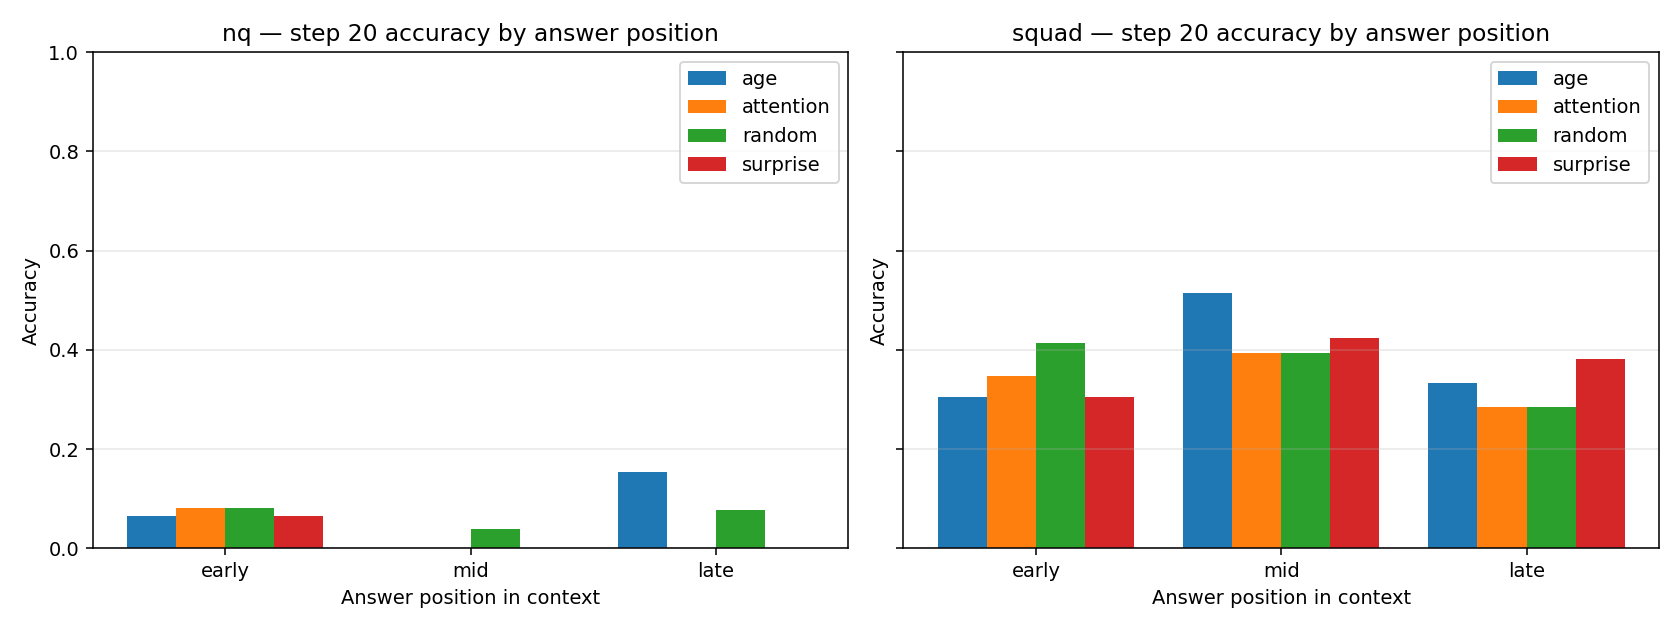
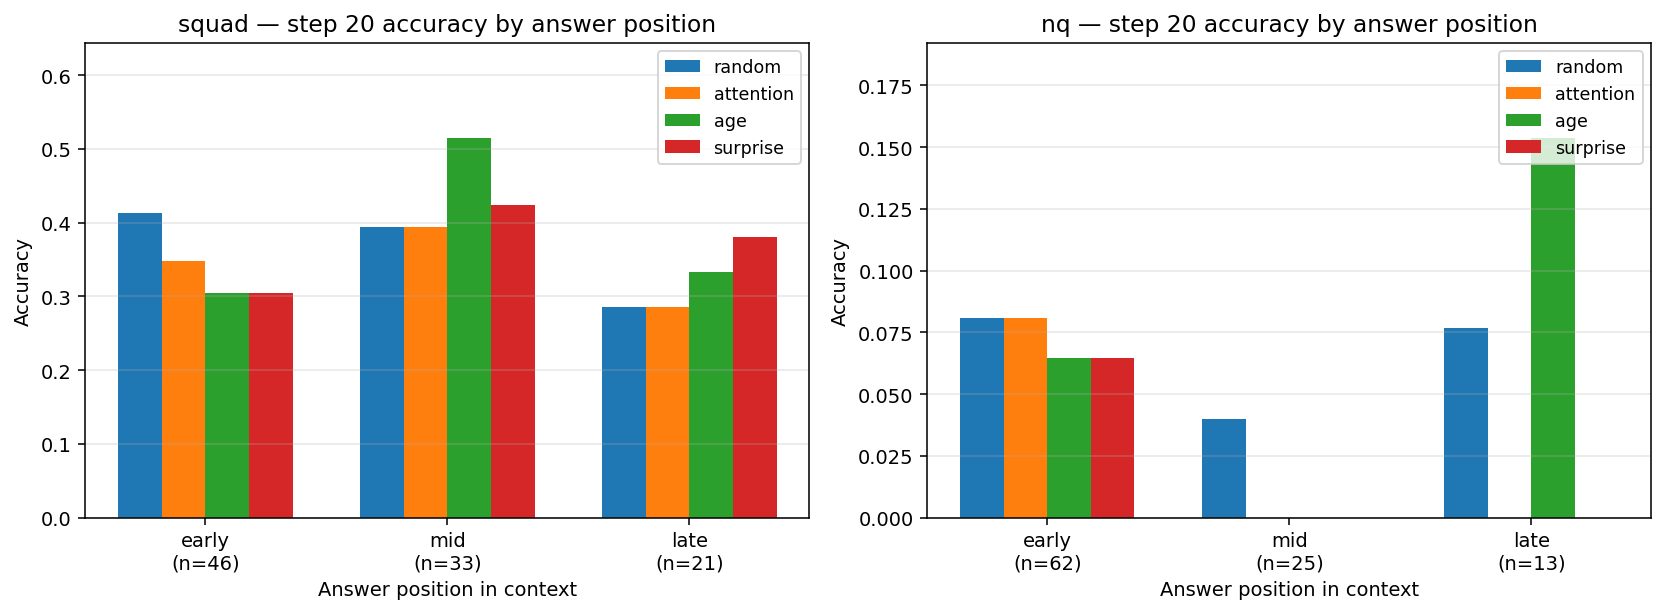
[FIX] position_bias: scale NQ panel independently

diff --git a/analysis/position_bias.py b/analysis/position_bias.py
@@ -197,26 +197,33 @@ def main():
     # Plot — one subplot per dataset, grouped bars over strategies
     datasets = sorted({r["dataset"] for r in rows})
     strategies = sorted({r["strategy"] for r in rows})
+    # No sharey — NQ accuracies are near floor (5-15%); forcing same scale as
+    # SQuAD (where accuracies hit 50%) makes the NQ panel look dead.
     fig, axes = plt.subplots(1, len(datasets), figsize=(6 * len(datasets), 4.5),
-                             sharey=True, squeeze=False)
+                             squeeze=False)
     width = 0.8 / max(len(strategies), 1)
     x = np.arange(args.bins)
 
     for ax, ds in zip(axes[0], datasets):
+        max_y = 0.0
         for si, strat in enumerate(strategies):
             ys = []
             for b in range(args.bins):
                 ms = [r for r in rows if r["dataset"] == ds
                                        and r["strategy"] == strat
                                        and r["bin"] == bin_labels[b]]
-                ys.append(ms[0]["accuracy"] if ms else float("nan"))
+                v = ms[0]["accuracy"] if ms else float("nan")
+                ys.append(v)
+                if not np.isnan(v):
+                    max_y = max(max_y, v)
             ax.bar(x + (si - len(strategies)/2 + 0.5) * width, ys, width, label=strat)
         ax.set_title(f"{ds} — step {args.step} accuracy by answer position")
         ax.set_xticks(x)
         ax.set_xticklabels(bin_labels[:args.bins])
         ax.set_xlabel("Answer position in context")
         ax.set_ylabel("Accuracy")
-        ax.set_ylim(0, 1)
+        # auto y-axis with a bit of headroom; small datasets get zoomed
+        ax.set_ylim(0, max(max_y * 1.25, 0.05))
         ax.legend()
         ax.grid(axis="y", alpha=0.3)
 
